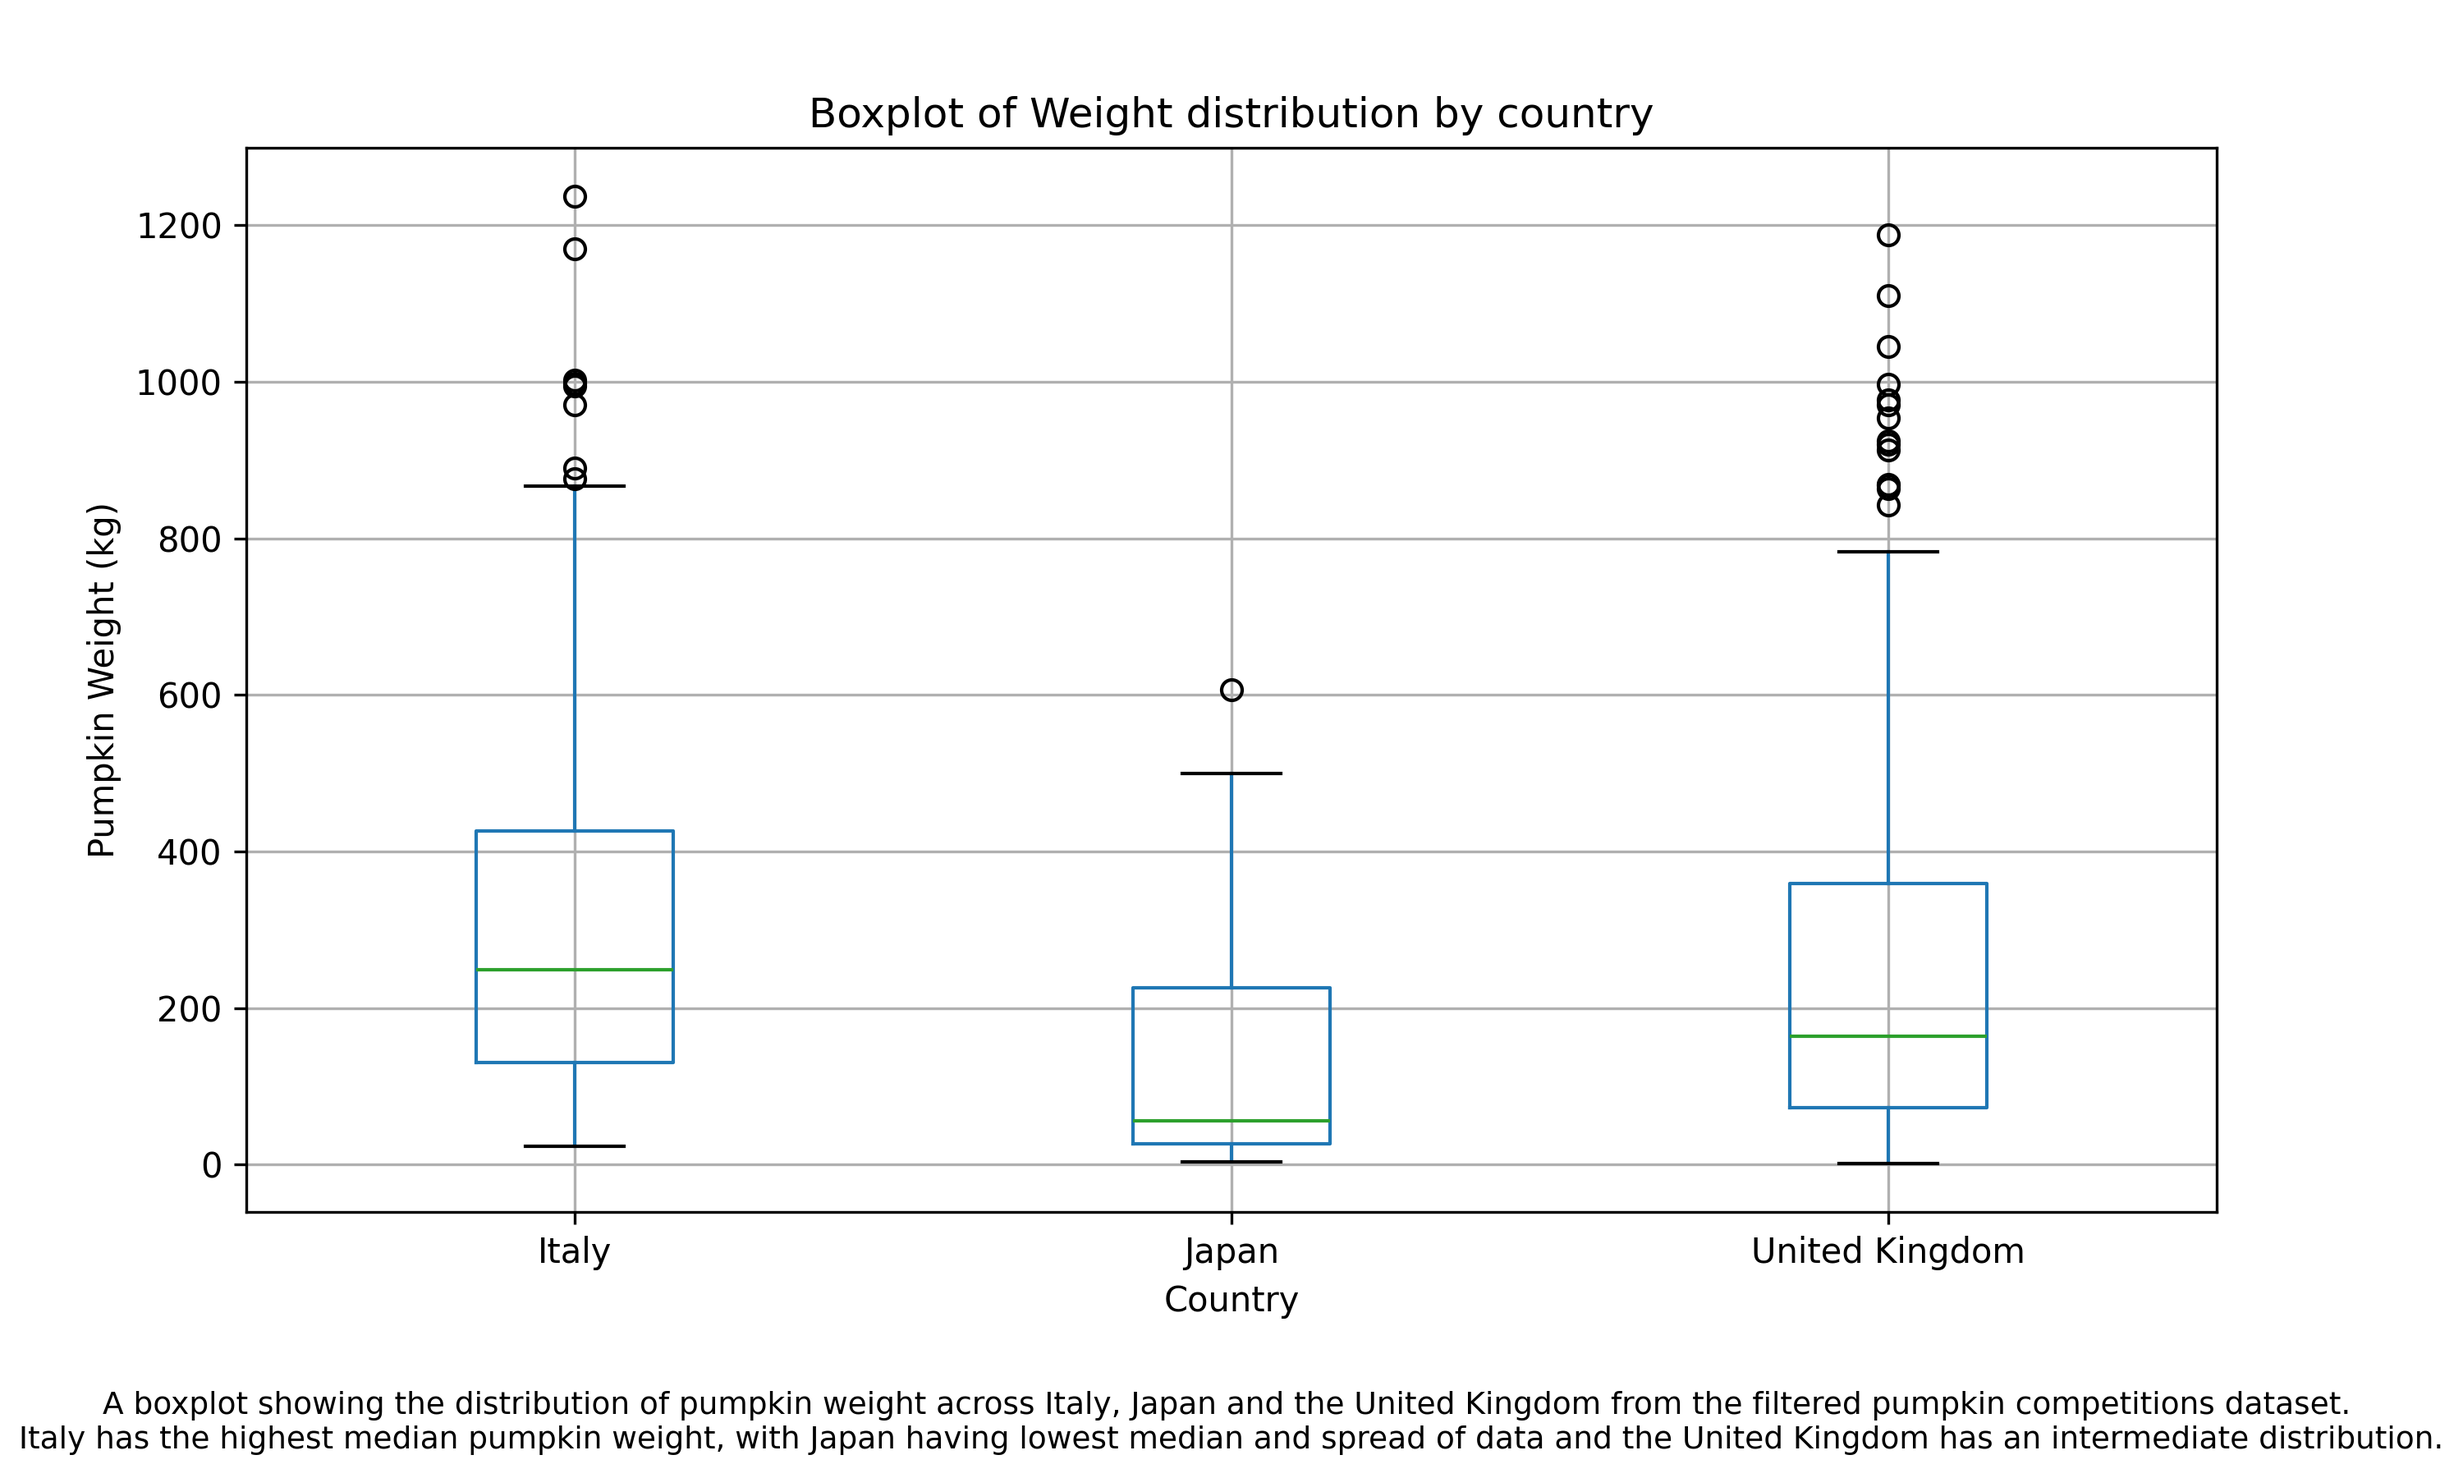
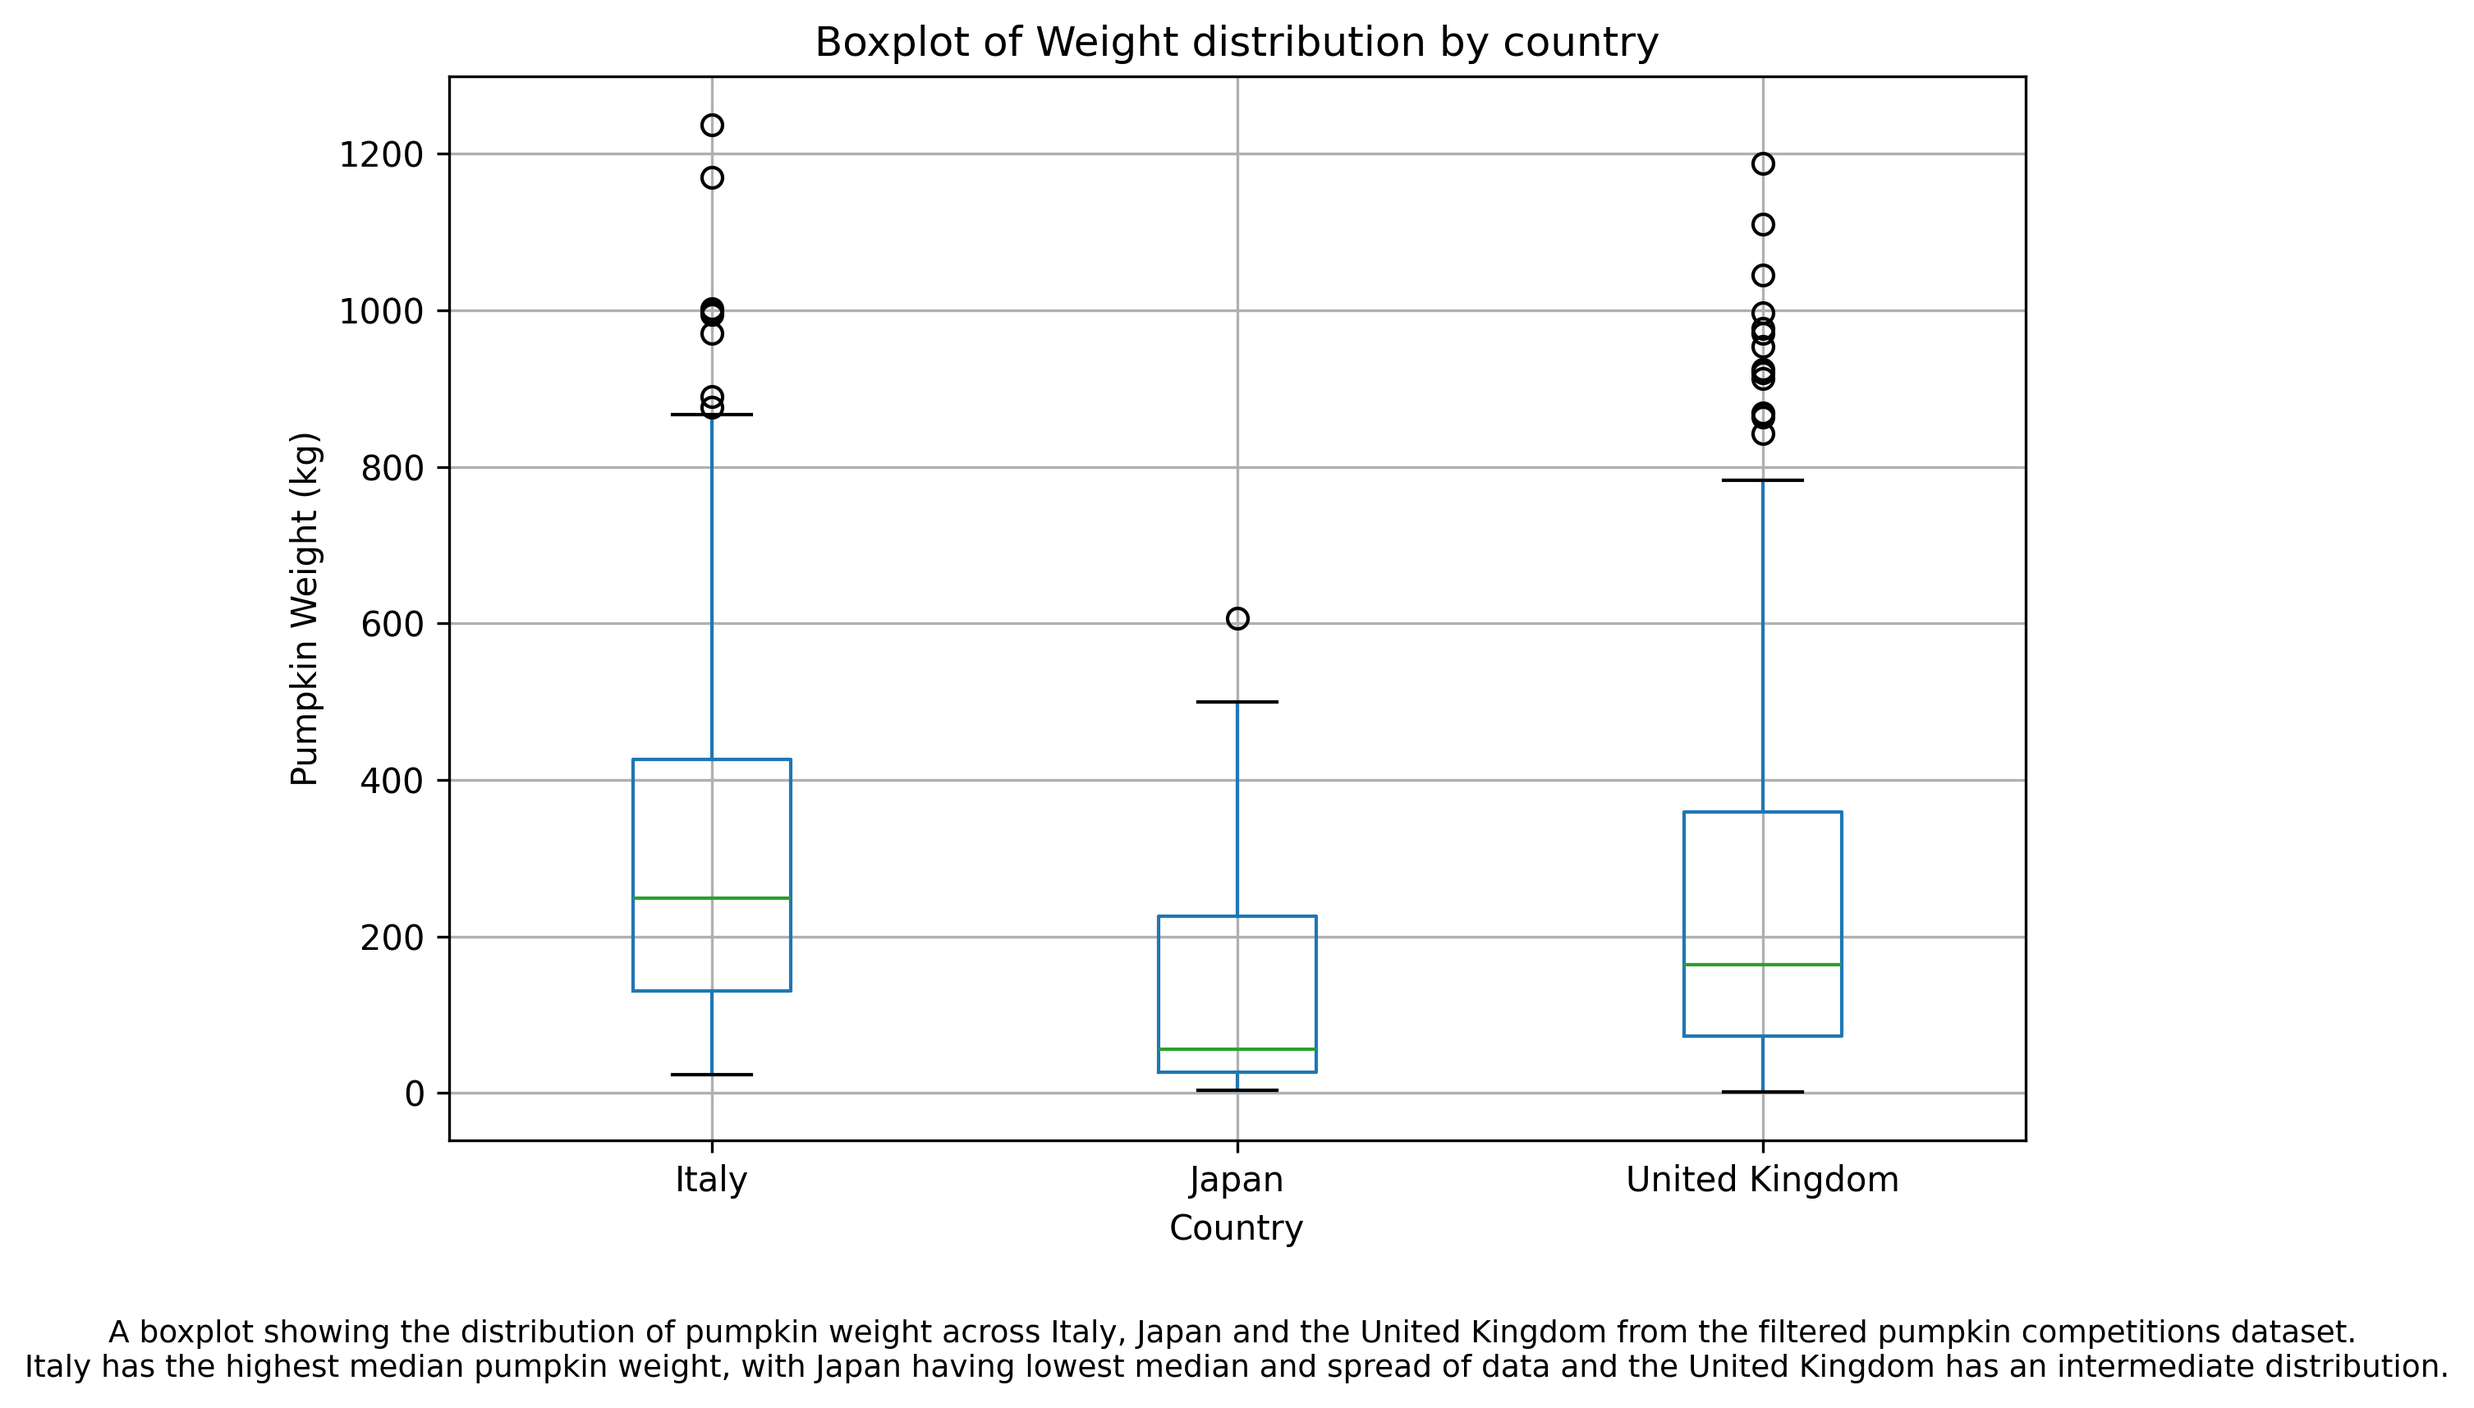
Fixing caption

diff --git a/Pumpkins/Pumpkins.py b/Pumpkins/Pumpkins.py
@@ -208,7 +208,7 @@ def main():
     figure_3.text(
     0.5, #Adjusts position of caption
     0.02, #Adjusts caption position
-    "A boxplot showing the distribution of pumpkin weight of three countries from the filtered pumpkin competitions dataset.", 
+    "A boxplot showing the distribution of pumpkin weight across Italy, Japan and the United Kingdom from the filtered pumpkin competitions dataset. \nItaly has the highest median pumpkin weight, with Japan having lowest median and spread of data and the United Kingdom has an intermediate distribution.", 
     ha = 'center', 
     fontsize = 9)
     figure_3.savefig("outputs/filtered_boxplot.png", bbox_inches='tight', dpi = 300) #Saves the third figure (boxplot) to disk.
@@ -236,9 +236,9 @@ def main():
         ha = 'center', 
         fontsize = 9) #Saves facetplot to disk. to disk. Increased dpi to improve readability.
     #bbox_inches reduces whitespace making it easier to read
-    plt.show() #Displays all the created figures.
     facetplot.figure.savefig("outputs/filtered_facet_boxplot.png",bbox_inches='tight', dpi = 300) #Saves facetplot to disk. to disk. Increased dpi to improve readability.
     #bbox_inches reduces whitespace making it easier to read
+    #plt.show() #Displays all the created figures interactively
 
 if __name__ == '__main__': #Ensures script runs
     main()
